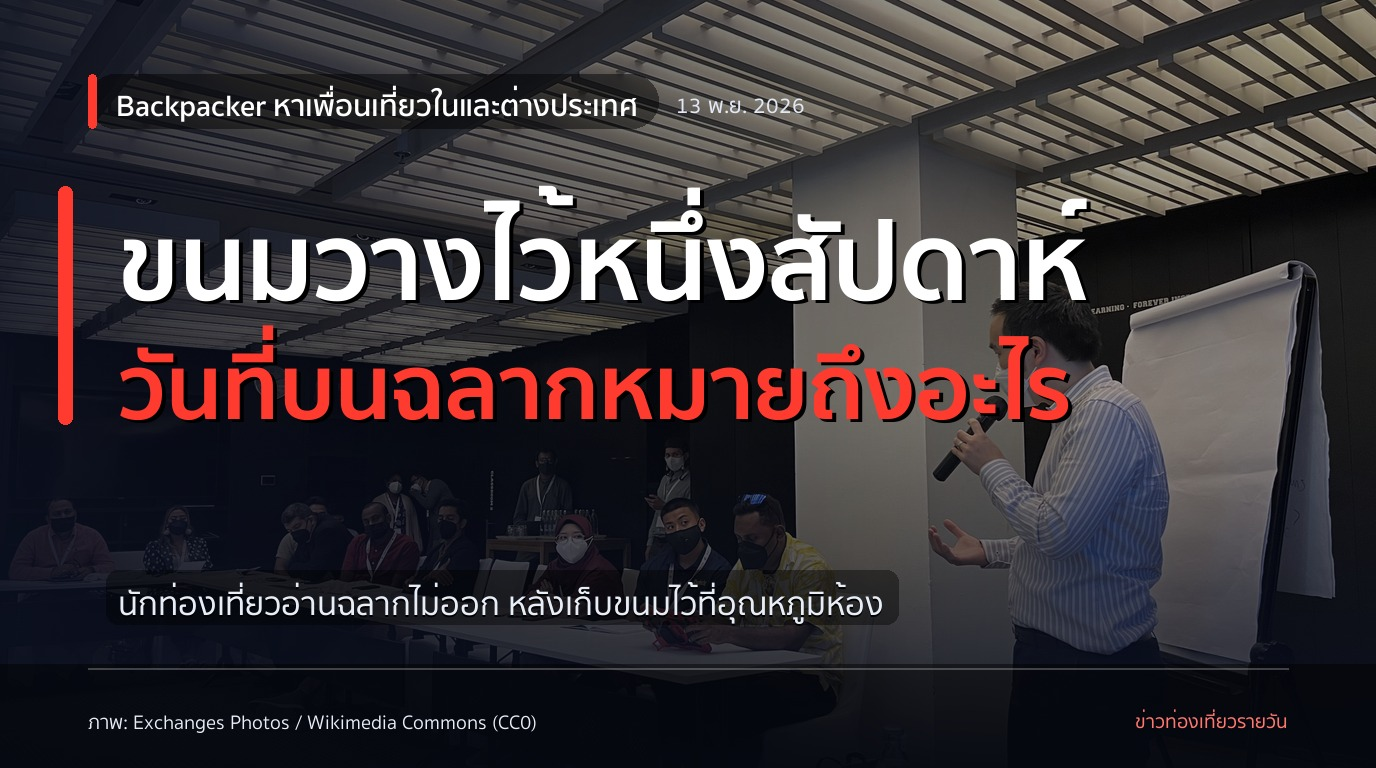
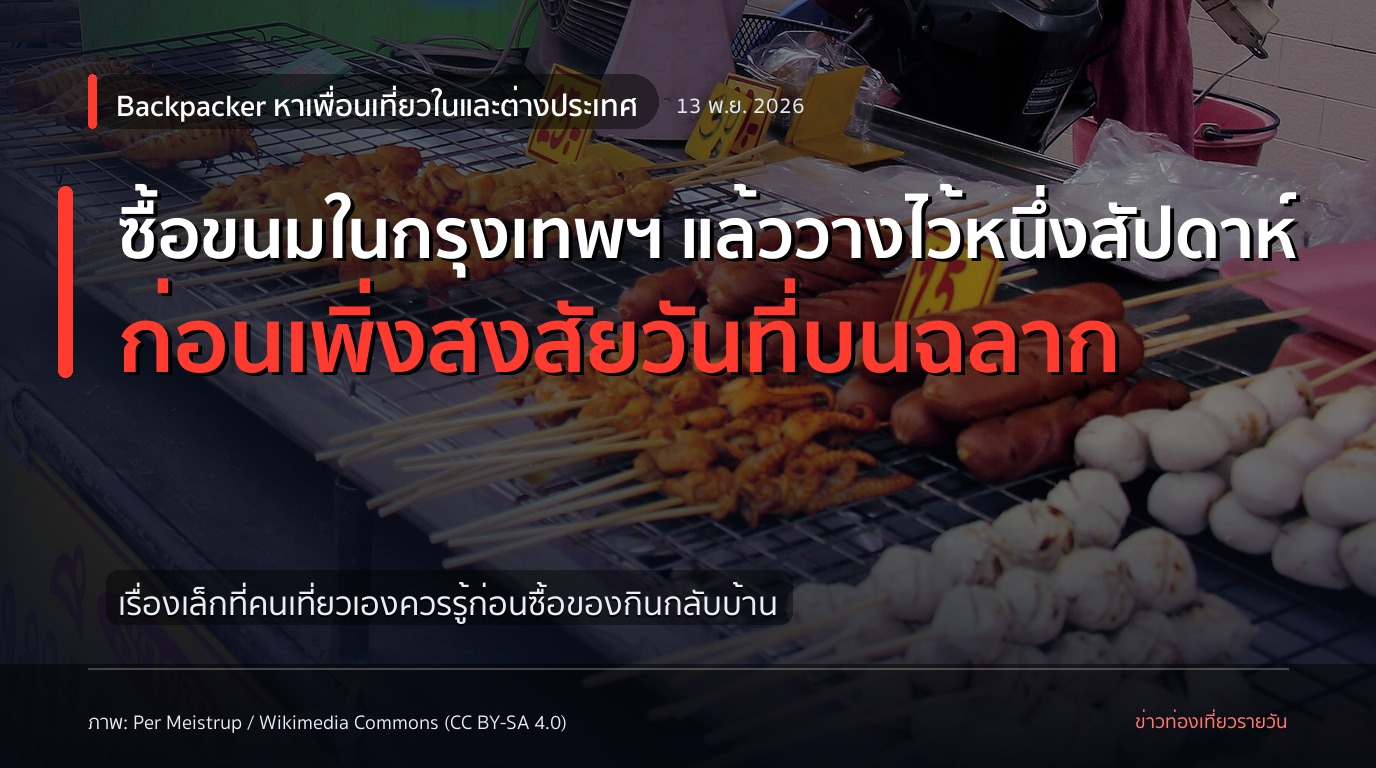
radar: better cover for post 1 + synced credits

diff --git a/docs/2026-11-13.html b/docs/2026-11-13.html
@@ -24,7 +24,7 @@
 <p>ข้อควรทำก่อนกิน: ถ้าอ่านวันที่หรือวิธีเก็บไม่ชัด ให้ถามร้านถึงขนมชิ้นนั้นโดยตรง อย่าเดาความหมายของฉลากเอง</p>
 <p>ที่มา: https://www.reddit.com/r/Thailand/comments/1xuyh3u/what_does_the_label_say/</p>
 <h1>เที่ยวกรุงเทพ #ขนมไทย #อ่านฉลาก</h1>
-<p><em>ภาพ: Exchanges Photos / Wikimedia Commons (CC0)</em></p>
+<p><em>ภาพ: Per Meistrup / Wikimedia Commons (CC BY-SA 4.0)</em></p>
 <h2>2. ผู้โดยสารรายงานรอตรวจคนเข้าเมือง 65 นาที หลังมาถึงสนามบินไทย</h2>
 <p><img alt="cover" src="img/post-2-cover-2026-11-13.jpg" /></p>
 <p>เพิ่งลงเครื่อง แต่ด่านตรวจคนเข้าเมืองรออยู่ 65 นาที</p>
